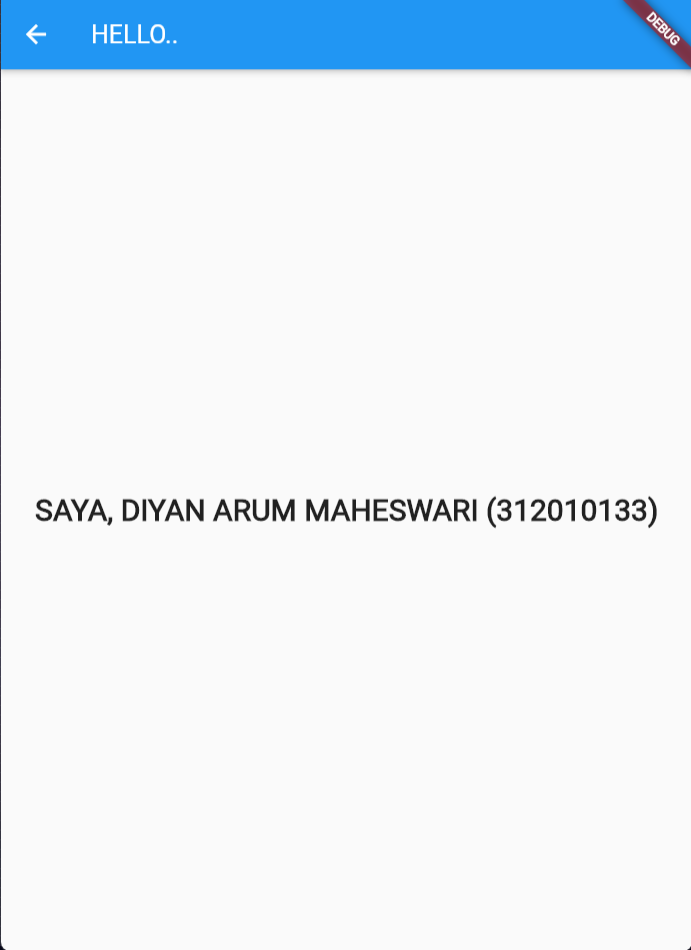
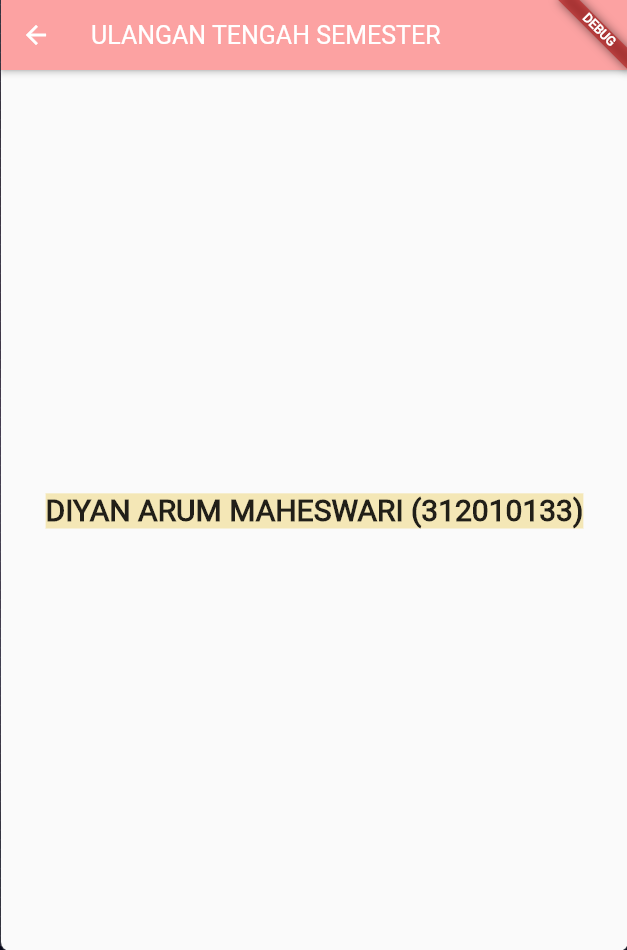
edit

Changed region(s): [[0.0, 0.0, 1.0, 0.0916], [0.0303, 0.5189, 0.9697, 0.58]]

diff --git a/lib/main.dart b/lib/main.dart
@@ -127,14 +127,16 @@ class HomePage extends StatelessWidget {
   Widget build(BuildContext context) {
     return Scaffold(
       appBar: AppBar(
-        title: Text('HELLO..'),
+        title: Text('ULANGAN TENGAH SEMESTER'),
+        backgroundColor: const Color.fromARGB(255, 252, 162, 162),
       ),
       body: Center(
         child: Text(
-          'SAYA, DIYAN ARUM MAHESWARI (312010133)',
+          'DIYAN ARUM MAHESWARI (312010133)',
           style: TextStyle(
             fontSize: 24,
             fontWeight: FontWeight.bold,
+            backgroundColor:  Color.fromARGB(255, 244, 231, 182)
           ),
           
         ),

diff --git a/README.md b/README.md
@@ -20,7 +20,7 @@ Sebelum melakukan Log In di sebuah aplikasi yang baru kita gunakan, biasanya kit
 
 ![menambahkan_gambar](PICT/login.png)
 
-Setelah memastikan bahwa data yang dimasukan sudah sesuai dengan yang didaftarkan sebelumnya. Selanjutnya, tekanlah tombol Log In dan kemudian kalian akan dibawa ke sebuah halaman isi seperti dibawah ini.
+Setelah memastikan bahwa data yang dimasukan sudah sesuai dengan yang didaftarkan sebelumnya. Selanjutnya, tekanlah tombol Log In dan kemudian jika berhasil kalian akan dibawa ke sebuah halaman isi seperti dibawah ini.
 
 
 ### **3. NOTE PAGE**
